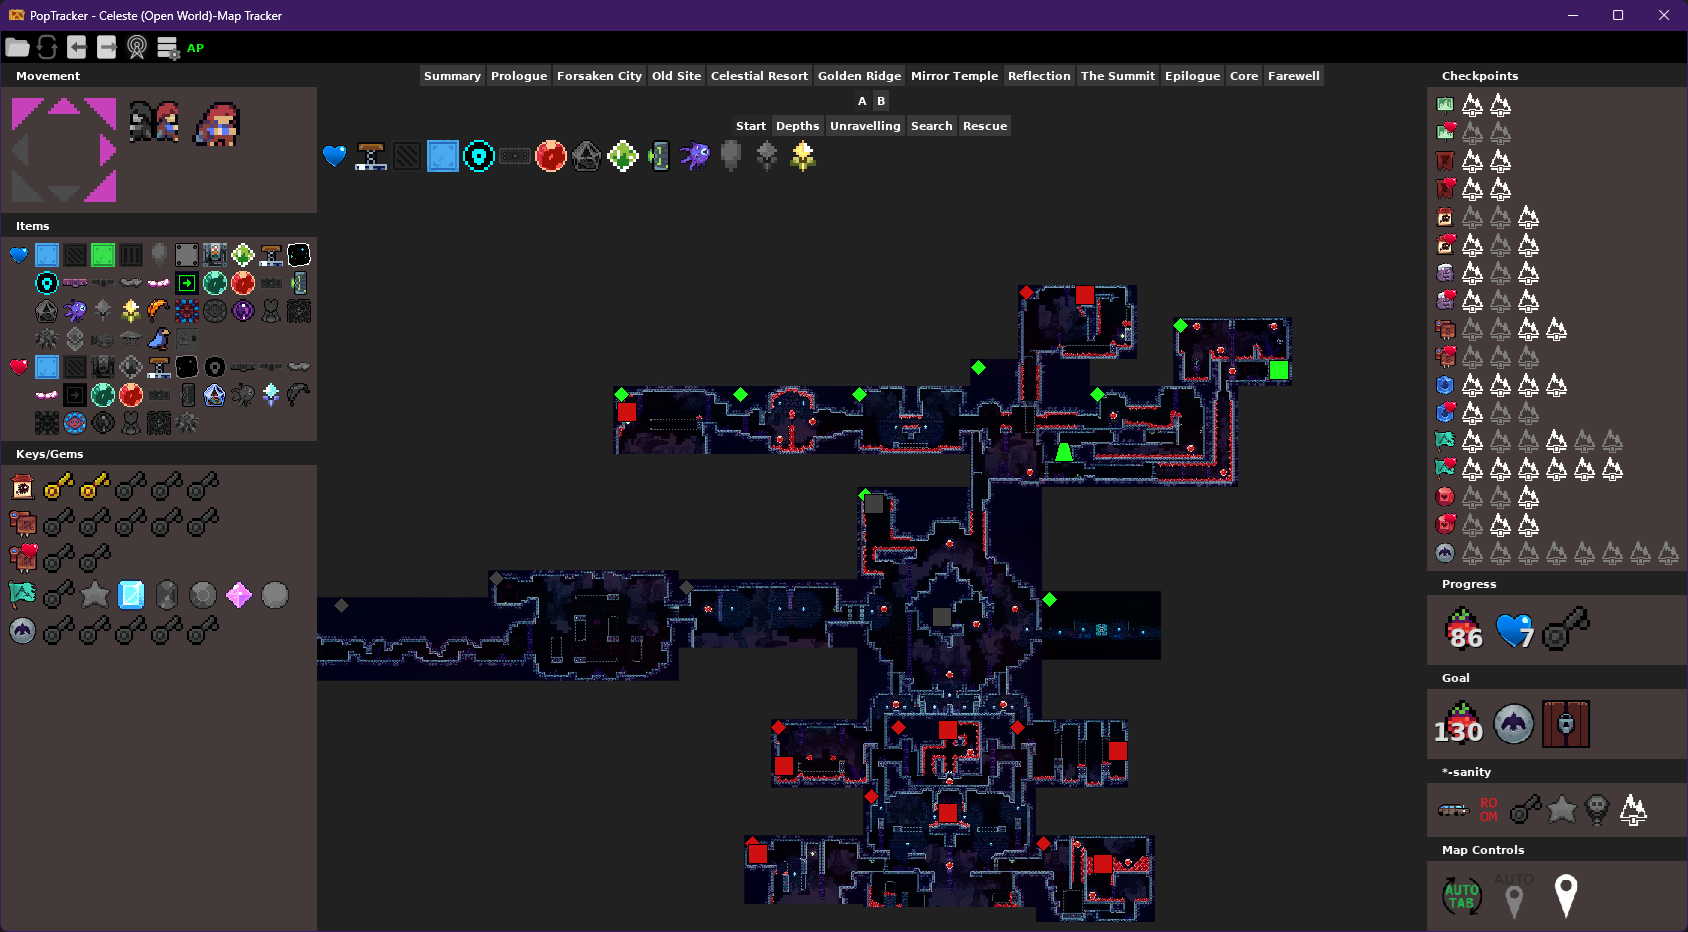
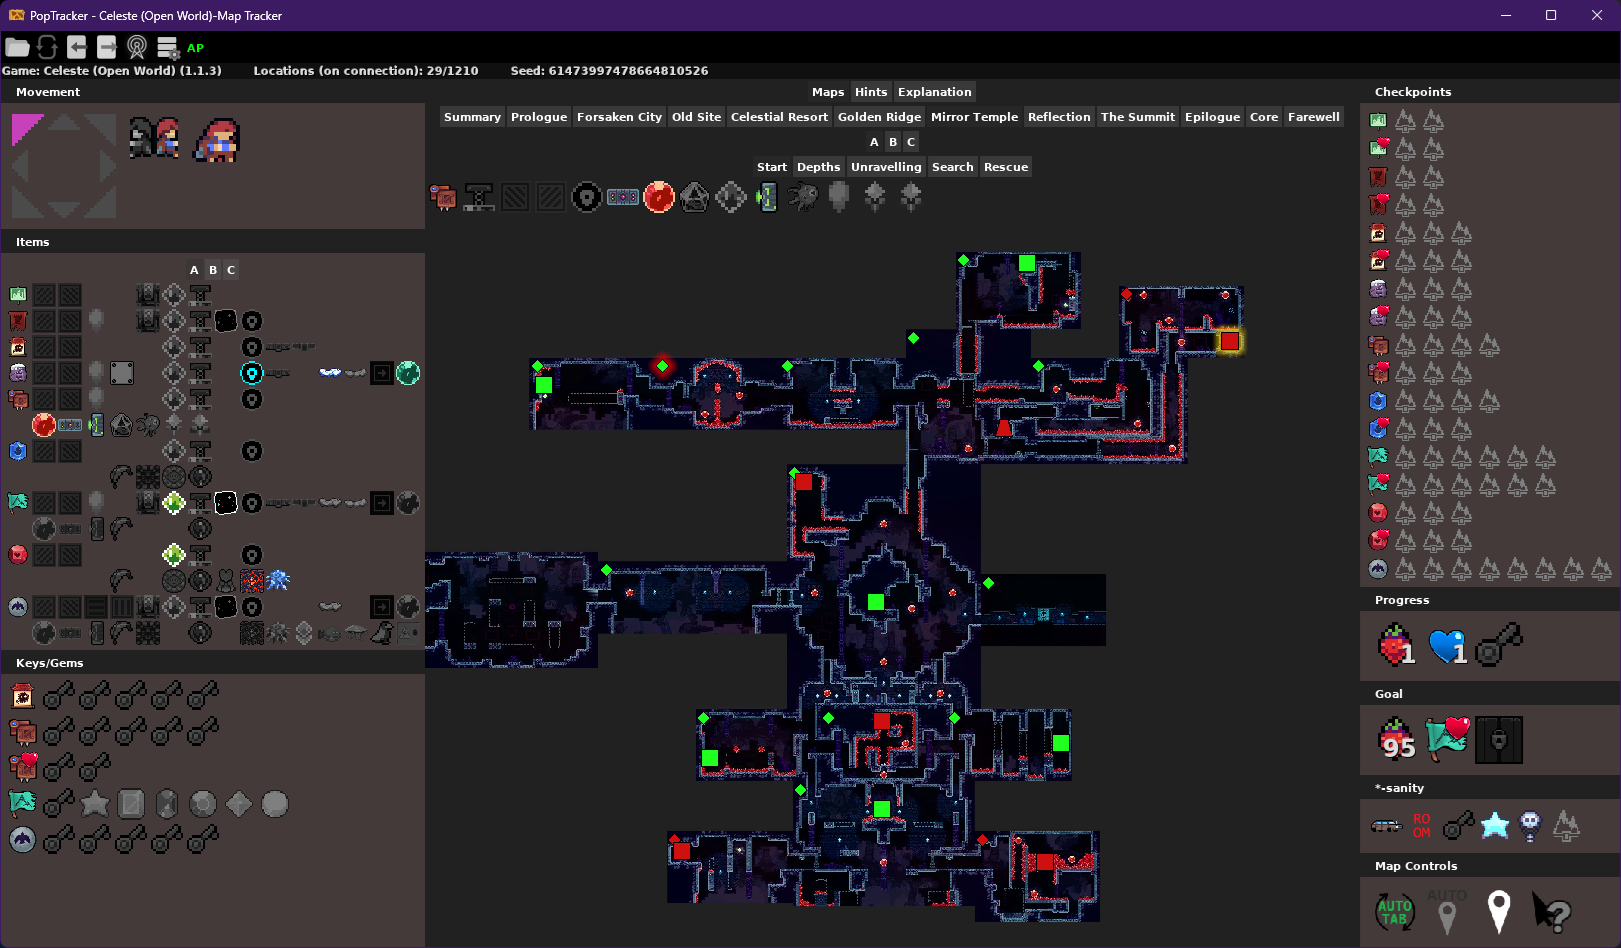
doc updates

diff --git a/README.md b/README.md
@@ -7,7 +7,7 @@ A PopTracker pack for the [Celeste (Open World) Archipelago Randomizer](https://
 
 ## Requirements
 
-- [PopTracker](https://poptracker.github.io/) (0.35.2 minimum, latest recommended)
+- [PopTracker](https://poptracker.github.io/) (0.35.4 minimum, latest recommended)
 
 
 ## Installation and Usage
@@ -22,7 +22,7 @@ A PopTracker pack for the [Celeste (Open World) Archipelago Randomizer](https://
 
 - Archipelago autotracking support
 - Backwards compatibility with Celeste (Open World) v1.0
-    - Uses v1.1 logic, manually set Vanilla Movement Logic Difficulty for a collection of out of logic locations due to its nature of including harder movement
+    - Uses v1.1 logic
 - Summary views of all locations in the game
 - Individual map views of all levels (by checkpoint)
 - Dynamic layout to only show information relevant to your active session
@@ -36,12 +36,30 @@ A PopTracker pack for the [Celeste (Open World) Archipelago Randomizer](https://
 - Toggleable auto-tabbing and "Where am I?" (pans/zooms the map to centre the room that you're currently in)
 - Access Logic:
 	- Randomiser Logic (Shown in green)
-	- Custom Logic/Sequence Breaks (Shown in yellow; See Notes for scope)
+	- Custom Logic/Sequence Breaks (Shown in yellow)
+        - Split into multiple difficulties: Green, Yellow, Red, and Purple
+	    - The sequence breaks implemented into the tracker are captured in the [OOL Sheet](https://docs.google.com/spreadsheets/d/1oAd9AermZXqerfXkCMwffkq7jkMnc5tY_arYFZ3xfOE).
+        - Additions can be requested using [the web form](https://docs.google.com/forms/d/e/1FAIpQLSc-_ia_77PShmiE3Lbnc4gOV64R2GZRiBCTVhV9cSa9zYb5tA/viewform)
 - Quality of Life: 
 	- Smart Keys/Gems indicate what's possible when collecting these items with the relevant *-sanity disabled
-	- GO Mode indicator shown on Granny's House Keys when strawberry requirement is met and required items to clear goal level are unlocked
+	- GO Mode indicator shown on Granny's House Keys when the strawberry requirement is met and required items to clear goal level are unlocked
 	- Progress Graph that displays all locations in a single small summary
     - Recent item feed shows a selection of your most recently received items
+    - Hint tab to provide quick access to hints
+    - Logic Directory variant lists all logic by room for querying/debugging (1080p screen minimum recommended)
+    - Explain feature highlights routes to locations and provides videos to show required tricks (see How to use Explain)
+
+### How to use Explain
+- Click on the Explain button under Map Controls
+- Mouse over a location on the map
+- In the section list tooltip, click on an individual location's icon
+- PopTracker will automatically navigate to the Explanation tab showing the route to the given location (max the last 20 steps), the last step is the step at the bottom of the list
+- A video link may be provided that can be clicked on to open a youtube (or similar) video to show the lowest difficulty trick that you have all required items to perform
+
+#### Caveats
+
+- Explain will always try to provide a video if it has one available, note that because of this there may be easier routes (for example, developer intended or vanilla movement logic difficulty routes), however there simply isn't another video available. This is primarily intended for less obvious tricks and so the assumption is that videos of clear routes are likely not needed.
+
 
 ## Tracker Views
 
@@ -82,8 +100,8 @@ A PopTracker pack for the [Celeste (Open World) Archipelago Randomizer](https://
   <tr>
     <td><img width="50" src="https://github.com/Zeeveez/CelesteOpenWorldPoptracker/blob/master/images/icons/chapters/7a.png"/>, etc.</td>
     <td>Goal</td>
-    <td><img width="50" src="https://github.com/Zeeveez/CelesteOpenWorldPoptracker/blob/master/images/icons/show-custom-logic.png"/></td>
-    <td>Show Custom Logic</td>
+    <td>Various</td>
+    <td>Show Custom Logic: <ul><li>Badeline: Vanilla Movement</li><li>Green: Easy</li><li>Yellow: Medium</li><li>Red: Hard</li><li>Purple: Brutal</li></td>
   </tr>
   <tr>
     <td><img width="50" src="https://github.com/Zeeveez/CelesteOpenWorldPoptracker/blob/master/images/icons/locked_door.png"/></td>
@@ -260,9 +278,6 @@ A PopTracker pack for the [Celeste (Open World) Archipelago Randomizer](https://
 	    - void does not trigger auto-tabbing as there is no notification for it from AP
 	- 9A-8 (Reconciliation) is so wide that it had to be sliced; rows are traversed left to right, top to bottom
 	- end-golden is so far away in 9A-9 that it had to be adjusted to appear much closer than it actually is for the map to be useful
-- Custom logic/sequence breaks:
-    - **Currently disabled**
-	- The sequence breaks implemented into the tracker is a non-exhaustive list and does not capture everything from the min-items worksheet
 
 
 ## Thanks
@@ -273,4 +288,5 @@ A PopTracker pack for the [Celeste (Open World) Archipelago Randomizer](https://
 - [StripesOO7](https://github.com/StripesOO7) for [Poptracker Packbuilder-Script](https://github.com/StripesOO7/poptracker-pack-builder) which generated the basis of the location and item lists
 - [ArchipelagoMW](https://github.com/ArchipelagoMW) for [Archipelago](https://github.com/ArchipelagoMW/Archipelago)
 - @Sterlia for custom AP item sprites used by locations
+- @Seemmetor for the [OOL route collection sheet](https://docs.google.com/spreadsheets/d/1oAd9AermZXqerfXkCMwffkq7jkMnc5tY_arYFZ3xfOE)
 
